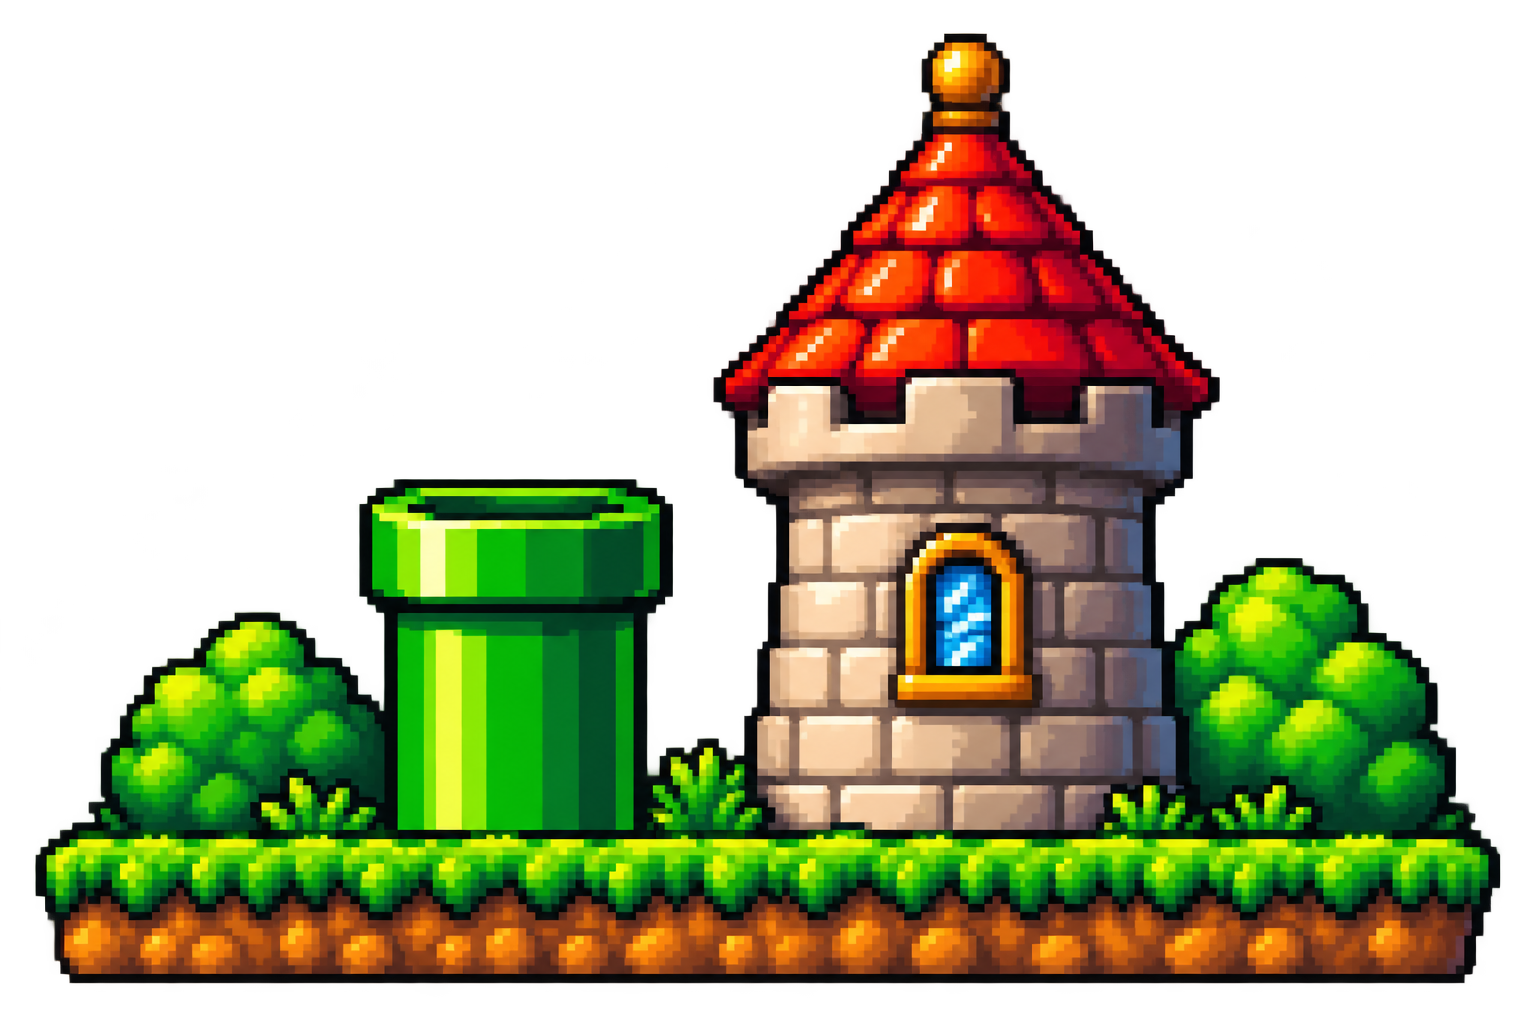
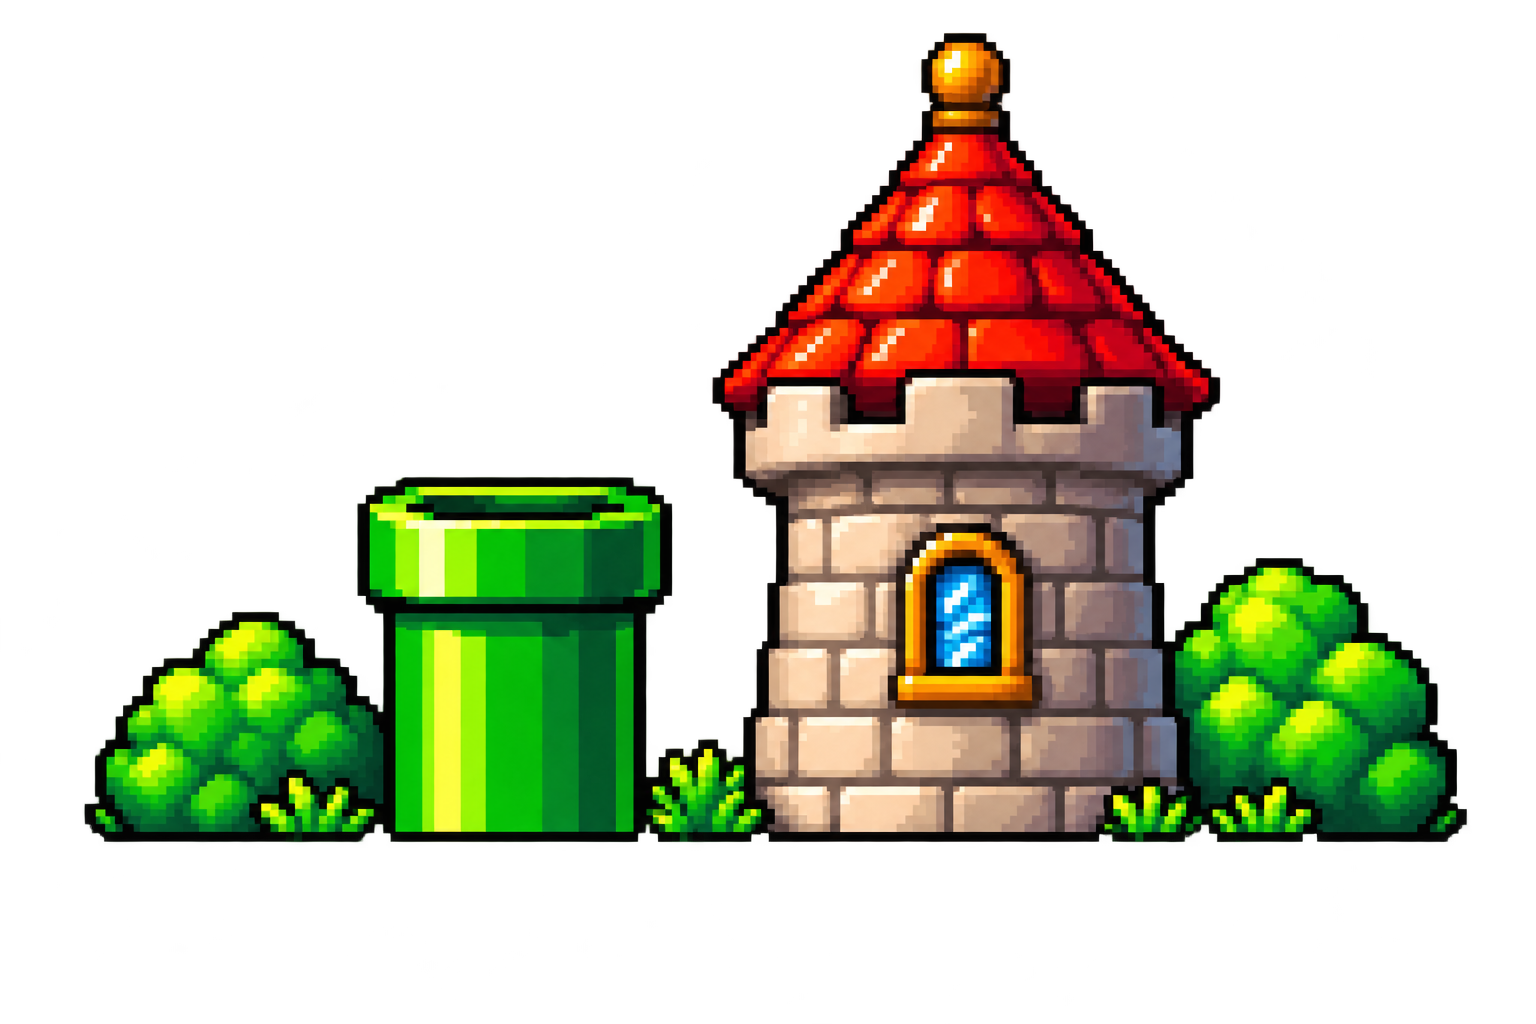
Refine Mushroom Kingdom hazard and prop artwork

diff --git a/src/game/props.ts b/src/game/props.ts
@@ -20,7 +20,7 @@ const DEFAULT_PROP: PropArtMetrics = {
 export const PROP_ART: readonly PropArtMetrics[] = [
   { ...DEFAULT_PROP, maxSize: 52 },
   { sourceWidth: 128, sourceHeight: 85, alphaLeft: 15, alphaRight: 112, alphaBottom: 85, maxSize: 50 },
-  { sourceWidth: 128, sourceHeight: 83, alphaLeft: 0, alphaRight: 128, alphaBottom: 82, maxSize: 50 },
+  { sourceWidth: 128, sourceHeight: 75, alphaLeft: 0, alphaRight: 128, alphaBottom: 75, maxSize: 50 },
   { ...DEFAULT_PROP, alphaLeft: 8, alphaRight: 121, maxSize: 45 },
   { sourceWidth: 122, sourceHeight: 128, alphaLeft: 0, alphaRight: 102, alphaBottom: 122, maxSize: 48 },
   { ...DEFAULT_PROP, maxSize: 48 },

diff --git a/tests/model.test.ts b/tests/model.test.ts
@@ -166,6 +166,7 @@ describe("birdddddd model", () => {
     expect(CHUNKS.find((chunk) => chunk.id === "underworld-forge")?.chapter).toBe(9);
     expect(INTERACTIVE_ART[2]?.slug).toBe("mushroom-kingdom");
     expect(INTERACTIVE_ART[2]?.emphasis?.pillarWidthBonus).toBe(8);
+    expect(propLayout(2).originY).toBe(1);
     expect(transitionArtFor(1, 2)?.slug).toBe("jungle-mushroom");
     expect(transitionArtFor(2, 3)?.slug).toBe("mushroom-dunes");
   });

diff --git a/progress.md b/progress.md
@@ -137,3 +137,5 @@ Original prompt: Implement the complete “Impossible Aviary — Gameplay and Ar
 2026-08-20: Rebuilt Underworld flame pillars around the corrected sand-jet composition rules. A new authored transparent `flame-plume` source/runtime pair separates fire from the existing vent housing. The housing now remains visible at full opacity in every cycle phase, only the active plume receives the generated red lethal silhouette, and collision excludes the safe 14-pixel housing. Floor and ceiling variants use surface-aware origins and distinct base/opening anchors, fixing ceiling flames that previously extended behind the terrain. Built-in ImageGen precise-object editing isolated the plume from the former composite flame asset; the repository's asset-preparation pipeline produced the compact runtime file. Live floor and ceiling captures were inspected; TypeScript, all 48 tests, the production build, and diff validation pass.
 2026-08-20: Converted the remaining seven environments—Underground Jungle, Marble Cave, Violet Grotto, Underground Corruption, Abandoned Minecart, Ashen Depths, and Underworld—from static panoramas to three-layer parallax scenes. Each now combines its existing far panorama with new authored transparent midground and near plates, biome-specific motion rates, chapter-relative transition distances, and the existing reduced-motion scaling. Generalized the scene renderer and asset manifest across all nine chapters; added exhaustive movement/crop coverage. Built-in ImageGen precise-object editing produced fourteen environment-specific source plates, and the preparation pipeline extracted three accidentally baked neutral checkerboards before runtime export. Local development now starts in Underground Jungle for immediate visual review; production still begins in Verdant Wilds. All seven live chapter captures were inspected with no browser errors; TypeScript, 49 tests, and the production build pass. No known follow-up work remains beyond user playtest tuning of per-biome depth rates.
 2026-08-20: Inserted Mushroom Kingdom as the third playable environment, expanding the sequence to ten chapters and sixty authored chunks. All former chapters from Sunken Dunes onward shift right by one position with new thresholds at 30/44/60/78/98/120/144 while preserving their chunk IDs and mechanics. The new chapter has six solver-safe chunks, an authored three-layer parallax overworld, grassy soil tiles, pipe/turret scenery, brick platforms, pipe gates, plant thorns, shell barbs, two neighboring transition landmarks, its own palette/music profile, and direct test-lab coverage. Local development starts at Mushroom Kingdom score 18; production still starts in Verdant Wilds. Built-in ImageGen generated eleven original source assets from a structured classic-platformer prompt set; source and compact runtime copies are preserved. Live gameplay captures verified the chapter, sloped hazard mounting, safe platforms, and shifted Sunken Dunes at score 30 without browser errors.
+2026-08-20: Removed the Mushroom Kingdom landmark's baked grass-and-soil plinth after it visibly disagreed with sloped tunnel terrain. The pipe, turret, and two shrubs now share a clean transparent-bottom contact line and the measured runtime bounds were updated from 128×83 to 128×75, so the existing world-coordinate slope fitter rotates only the scenery itself and seats it directly against the actual ground. Built-in ImageGen precise-object editing preserved the original subjects and art style while removing only the terrain slab. A synchronized live capture confirmed the corrected seam on a descending and rising tunnel section with no browser errors; TypeScript, all 50 tests, the production build, asset validation, and diff checks pass.
+2026-08-20: Replaced the Mushroom Kingdom terrain-thorn and heavy-barb cluster sheets with purpose-built single-point sprites. The existing variable-count hazard layout can now repeat one tall plant point or one tall armored point without horizontally crushing an entire four-plant bed or multi-spike shell into every slot. Both new runtime sprites use genuine transparent alpha and aspect ratios matched to their narrow logical display bounds; the terrain thorn retains its red carnivorous-plant identity while the heavier barb uses a cream cone, dark armored collar, and small brick mounting. Built-in ImageGen used reference-derived generation plus one transparency correction for the rejected checkerboard-backed barb result. Required live chapter captures and runtime sprite inspection confirm the corrected silhouettes are legible at gameplay scale.
